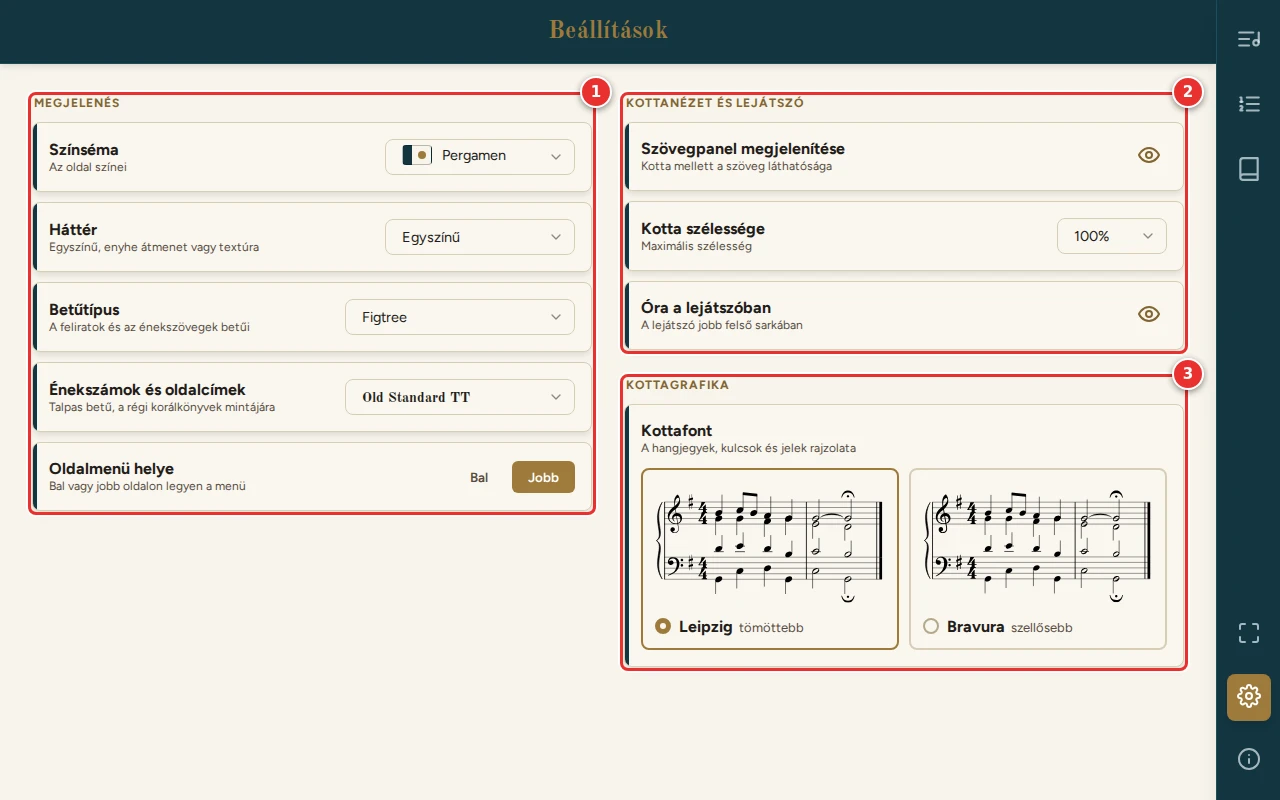
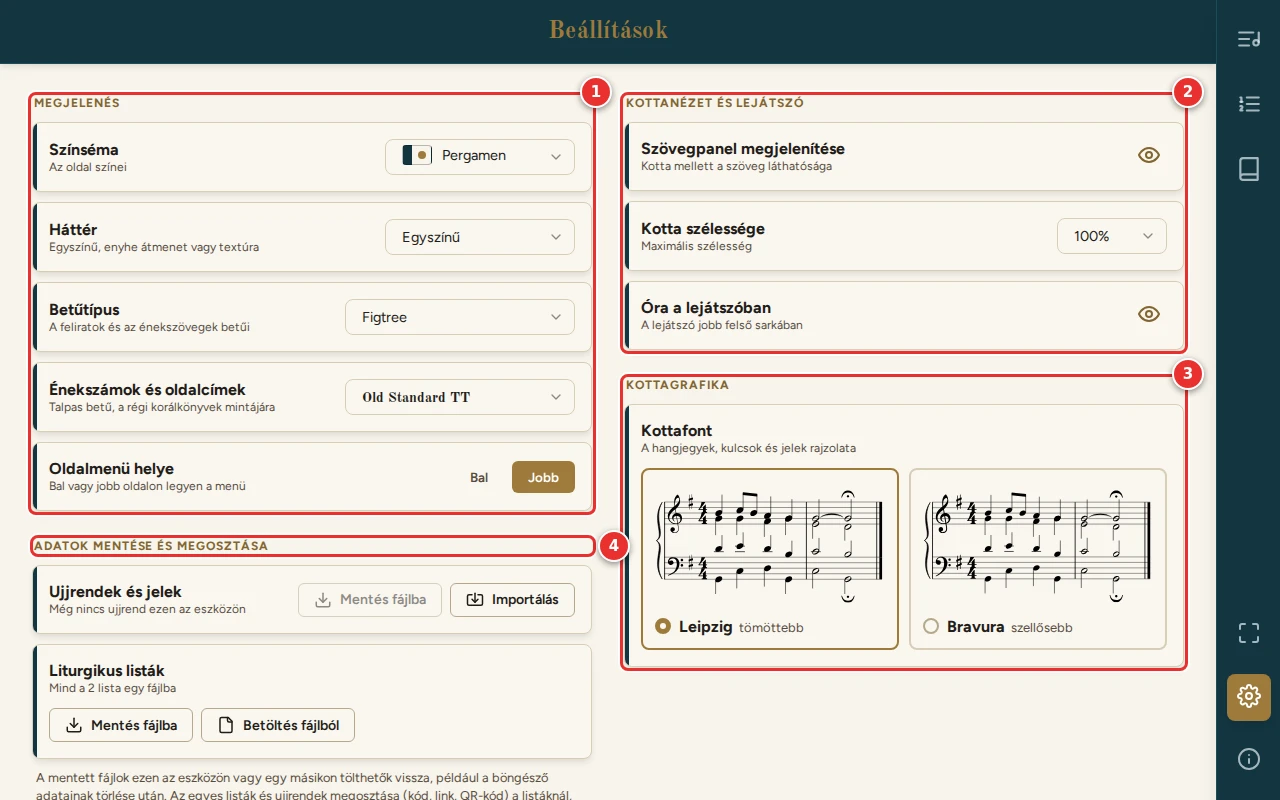
Útmutató: képek az ujjrendhez és az adatmentéshez
- Új képek: a billentyűzet (ujj, pedál, játékmód), a beírt jelek a kottában,
  a Beállítások adatmentési szakasza.
- Frissítve: a kotta panelje (az Ujjrend sorral) és a Beállítások oldal.
- A szövegben a számozás a képekhez igazítva.

Claude-Session: https://claude.ai/code/session_01MYqJg8neyYipr8qNEmiZrX

Changed region(s): [[0.0, 0.6562, 0.5, 0.7812], [0.0, 0.8125, 0.4375, 1.0]]

diff --git a/docs/08-beallitasok.md b/docs/08-beallitasok.md
@@ -43,6 +43,8 @@ Az oldalsó szövegpanel szélességét nem itt kell beállítani: a panel fogan
 Itt mentheted fájlba a saját adataidat, és itt töltheted vissza őket. Így biztonsági mentés készíthető, és az adatok
 másik eszközre is átvihetők. A mentett fájl a böngésző adatainak törlése után is visszatölthető.
 
+![Adatok mentése és megosztása: ujjrendek és jelek (1), liturgikus listák (2)](kepek/adatok-mentese.webp)
+
 - **Ujjrendek és jelek:** a sorban látszik, hány letéthez és összesen hány hanghoz van ujjrend, pedál- vagy
   játékmódjel ezen az eszközön.
   - **Mentés fájlba:** minden ujjrend és jel egy fájlba (`orgonatar-ujjrendek-<dátum>.json`).
